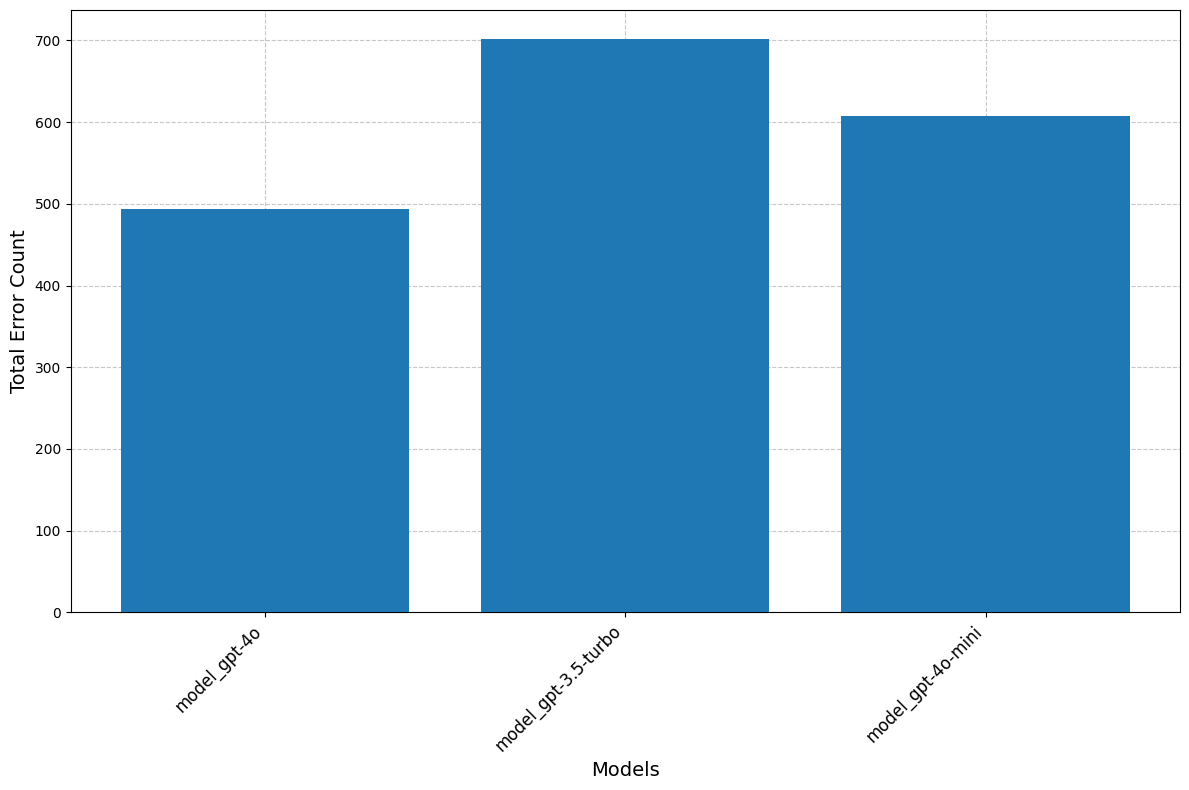
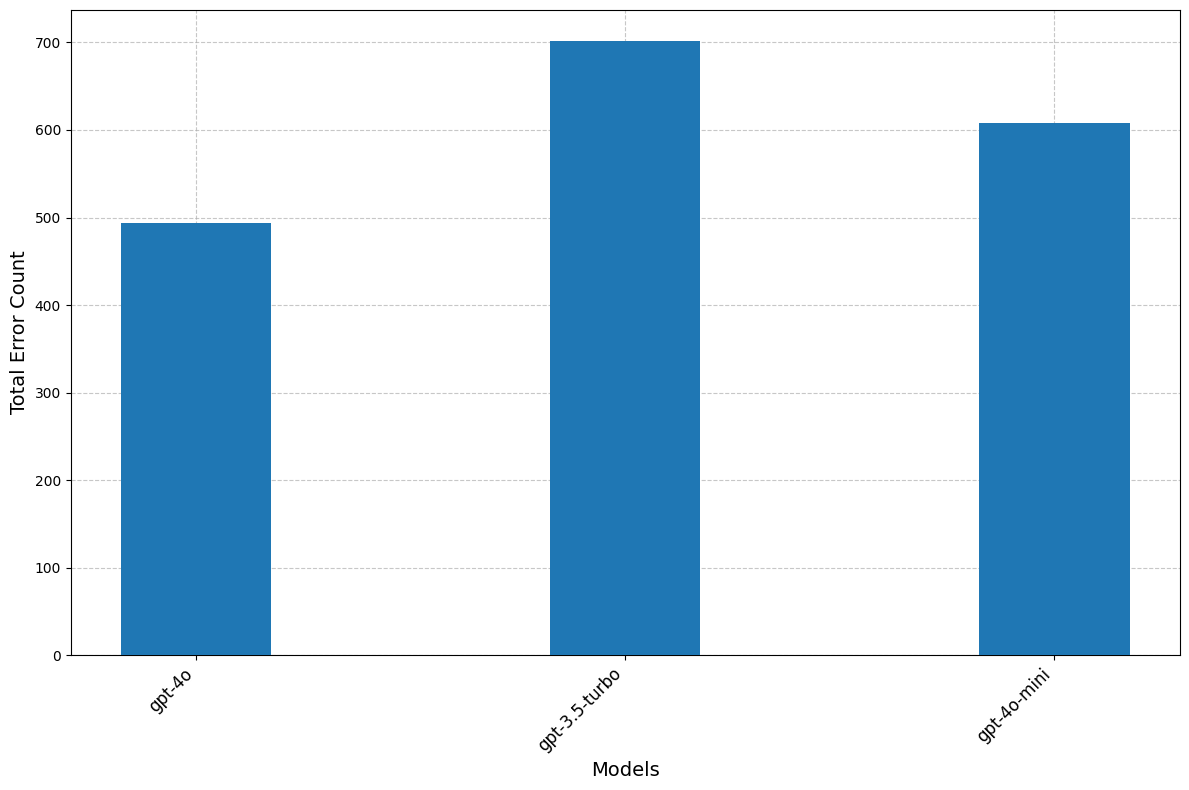
fix representation in plots. Refs #22.

diff --git a/visualisation/visualize_all.py b/visualisation/visualize_all.py
@@ -49,14 +49,34 @@ def plot_error_types():
     base_dir = Path(os.getenv('PROJECT_BASE_DIR'))
     models_dir = os.path.join(base_dir, 'evaluation_results', 'results')
 
-    error_type_plot = ErrorTypePlot()
+    errorTypePlot = ErrorTypePlot()
 
     # Extract error counts
-    all_error_counts = error_type_plot.extract_and_count_errors(models_dir)
+    all_error_counts = errorTypePlot.extract_and_count_errors(models_dir)
 
     # Plot error counts for each model and prompt type
     for (prompt_type, model_name), error_counts in all_error_counts.items():
-        error_type_plot.plot_error_counts(prompt_type, model_name, error_counts)
+        errorTypePlot.plot_error_counts(prompt_type, model_name, error_counts)
+
+    # Extract total error counts by model
+    model_list = ['model_gpt-4o', 'model_gpt-4o-mini', 'model_gpt-3.5-turbo']
+    prompt_dirs_standard = ['no_principles_base_prompt', 'all_principles_zero_shot', 'all_principles_few_shot',
+                            'chain_of_thought', 'best_prompt']
+    all_error_counts_by_model = errorTypePlot.extract_and_count_total_errors_per_model_per_prompt_type(models_dir,
+                                                                                                       model_list,
+                                                                                                       prompt_dirs_standard)
+
+    # Plot total error counts for each model
+    errorTypePlot.plot_total_error_counts_by_prompt_type(all_error_counts_by_model)
+
+    models_list_ft = ['model_gpt-4o-mini', 'model_ft:gpt-4o-mini-2024-07-18:university-of-bielefeld::A5quE69s']
+    prompt_dirs_ft = ['fine_tuning_best_prompt_fold_2']
+    all_error_counts_by_model_ft = errorTypePlot.extract_and_count_total_errors_per_model_per_prompt_type(models_dir,
+                                                                                                          models_list_ft,
+                                                                                                          prompt_dirs_ft)
+
+    # Plot total error counts for each model
+    errorTypePlot.plot_total_error_counts_by_prompt_type(all_error_counts_by_model_ft)
 
 
 def plot_exclude_paths():
@@ -105,12 +125,18 @@ def plot_runtime():
     load_dotenv()
     base_dir = Path(os.getenv('PROJECT_BASE_DIR'))
 
-    results_dir = os.path.join(base_dir, 'evaluation_results', 'results')
-    prompt_dirs = os.listdir(results_dir)
-
-    for prompt_dir_name in prompt_dirs:
+    prompt_dirs_standard = ['no_principles_base_prompt', 'all_principles_zero_shot', 'all_principles_few_shot', 'chain_of_thought', 'best_prompt']
+    models_list_standard = ['model_gpt-4o', 'model_gpt-4o-mini', 'model_gpt-3.5-turbo']
+    for prompt_dir_name in prompt_dirs_standard:
         models_dir = os.path.join(base_dir, 'evaluation_results', 'results', prompt_dir_name)
-        model_names, runtimes = runtime_plot.calculate_runtime(models_dir)
+        model_names, runtimes = runtime_plot.calculate_runtime(models_dir, models_list_standard)
+        runtime_plot.plot_runtime(model_names, runtimes, prompt_dir_name)
+
+    models_list_ft = ['model_gpt-4o-mini', 'model_ft:gpt-4o-mini-2024-07-18:university-of-bielefeld::A5quE69s']
+    prompt_dirs_ft = ['fine_tuning_best_prompt_fold_2']
+    for prompt_dir_name in prompt_dirs_ft:
+        models_dir = os.path.join(base_dir, 'evaluation_results', 'results', prompt_dir_name)
+        model_names, runtimes = runtime_plot.calculate_runtime(models_dir, models_list_ft)
         runtime_plot.plot_runtime(model_names, runtimes, prompt_dir_name)
 
 
@@ -119,12 +145,19 @@ def plot_costs_per_model():
     load_dotenv()
     base_dir = Path(os.getenv('PROJECT_BASE_DIR'))
 
-    results_dir = os.path.join(base_dir, 'evaluation_results', 'results')
-    prompt_dirs = os.listdir(results_dir)
-
-    for prompt_dir_name in prompt_dirs:
+    prompt_dirs_standard = ['no_principles_base_prompt', 'all_principles_zero_shot', 'all_principles_few_shot',
+                            'chain_of_thought', 'best_prompt']
+    models_list_standard = ['model_gpt-4o', 'model_gpt-4o-mini', 'model_gpt-3.5-turbo']
+    for prompt_dir_name in prompt_dirs_standard:
         models_dir = os.path.join(base_dir, 'evaluation_results', 'results', prompt_dir_name)
-        model_names, costs = cost_plot.calculate_costs(models_dir)
+        model_names, costs = cost_plot.calculate_costs(models_dir, models_list_standard)
+        cost_plot.plot_costs(model_names, costs, prompt_dir_name)
+
+    models_list_ft = ['model_gpt-4o-mini', 'model_ft:gpt-4o-mini-2024-07-18:university-of-bielefeld::A5quE69s']
+    prompt_dirs_ft = ['fine_tuning_best_prompt_fold_2']
+    for prompt_dir_name in prompt_dirs_ft:
+        models_dir = os.path.join(base_dir, 'evaluation_results', 'results', prompt_dir_name)
+        model_names, costs = cost_plot.calculate_costs(models_dir, models_list_ft)
         cost_plot.plot_costs(model_names, costs, prompt_dir_name)
 
 

diff --git a/visualisation/scores_error_types.py b/visualisation/scores_error_types.py
@@ -65,7 +65,7 @@ class ErrorTypePlot:
         return all_error_counts
 
     @staticmethod
-    def extract_and_count_total_errors_per_model_per_prompt_type(results_directory, model_list):
+    def extract_and_count_total_errors_per_model_per_prompt_type(results_directory, model_list, prompt_list):
         """
         Extracts and counts total errors per model for each prompt type.
 
@@ -80,7 +80,7 @@ class ErrorTypePlot:
         error_counts_by_prompt_type = defaultdict(lambda: defaultdict(int))
 
         # Iterate through each prompt type directory in the results directory
-        for prompt_type_folder in os.listdir(results_directory):
+        for prompt_type_folder in prompt_list:
             prompt_type_path = os.path.join(results_directory, prompt_type_folder)
 
             if os.path.isdir(prompt_type_path):
@@ -190,7 +190,8 @@ class ErrorTypePlot:
 
             # Bar plot
             bar_positions = np.arange(len(models))
-            ax.bar(bar_positions, total_errors, color='#1f77b4',  zorder=3)
+            bar_width = 0.35
+            ax.bar(bar_positions, total_errors, bar_width, color='#1f77b4', zorder=3)
 
             # Set labels and title
             ax.set_xlabel('Models', fontsize=14)
@@ -199,7 +200,13 @@ class ErrorTypePlot:
 
             # Set x-ticks and rotate for better readability
             ax.set_xticks(bar_positions)
-            ax.set_xticklabels(models, rotation=45, ha='right', fontsize=12)
+            truncated_model_names = [
+                re.sub(r'^model_(\w+):([a-zA-Z0-9\-\.]+)-\d{4}-\d{2}-\d{2}.*', r'\2-\1', name)
+                if ':' in name else
+                re.sub(r'^model_([a-zA-Z0-9\-\.]+).*', r'\1', name)
+                for name in models
+            ]
+            ax.set_xticklabels(truncated_model_names, rotation=45, ha='right', fontsize=12)
 
             # Grid and layout adjustments
             plt.grid(True, linestyle='--', alpha=0.7, zorder=0)
@@ -232,7 +239,20 @@ if __name__ == '__main__':
 
     # Extract total error counts by model
     model_list = ['model_gpt-4o', 'model_gpt-4o-mini', 'model_gpt-3.5-turbo']
-    all_error_counts_by_model = errorTypePlot.extract_and_count_total_errors_per_model_per_prompt_type(models_dir, model_list)
+    prompt_dirs_standard = ['no_principles_base_prompt', 'all_principles_zero_shot', 'all_principles_few_shot',
+                            'chain_of_thought', 'best_prompt']
+    all_error_counts_by_model = errorTypePlot.extract_and_count_total_errors_per_model_per_prompt_type(models_dir,
+                                                                                                       model_list,
+                                                                                                       prompt_dirs_standard)
 
     # Plot total error counts for each model
     errorTypePlot.plot_total_error_counts_by_prompt_type(all_error_counts_by_model)
+
+    models_list_ft = ['model_gpt-4o-mini', 'model_ft:gpt-4o-mini-2024-07-18:university-of-bielefeld::A5quE69s']
+    prompt_dirs_ft = ['fine_tuning_best_prompt_fold_2']
+    all_error_counts_by_model_ft = errorTypePlot.extract_and_count_total_errors_per_model_per_prompt_type(models_dir,
+                                                                                                          models_list_ft,
+                                                                                                          prompt_dirs_ft)
+
+    # Plot total error counts for each model
+    errorTypePlot.plot_total_error_counts_by_prompt_type(all_error_counts_by_model_ft)

diff --git a/visualisation/plot_costs.py b/visualisation/plot_costs.py
@@ -1,5 +1,6 @@
 import json
 import os
+import re
 from pathlib import Path
 
 import numpy as np
@@ -12,11 +13,11 @@ class CostPlot:
         pass
 
     @staticmethod
-    def calculate_costs(models_directory):
+    def calculate_costs(models_directory, model_list):
         model_names = []
         costs = []
         for model_folder in os.listdir(models_directory):
-            if os.path.isdir(os.path.join(models_directory, model_folder)) and model_folder in {'model_gpt-4o', 'model_gpt-4o-mini', 'model_gpt-3.5-turbo'}:
+            if os.path.isdir(os.path.join(models_directory, model_folder)) and model_folder in model_list:
                 costs_directory = os.path.join(models_directory, model_folder, 'costs')
                 if os.path.exists(costs_directory):
                     json_files = [file for file in os.listdir(costs_directory) if file.endswith('.json')]
@@ -42,10 +43,12 @@ class CostPlot:
         ax.set_ylabel('Costs in dollar')
         # ax.set_title(f'Costs per model {prompt_name}', pad=20)
         ax.set_xticks(x)
-        # truncated_model_names = [
-        #     name.split("-2024-07-18")[0] if "-2024-07-18" in name else name for name in
-        #     model_names]
-        truncated_model_names = [name.replace("model_", "") for name in model_names]
+        truncated_model_names = [
+            re.sub(r'^model_(\w+):([a-zA-Z0-9\-\.]+)-\d{4}-\d{2}-\d{2}.*', r'\2-\1', name)
+            if ':' in name else
+            re.sub(r'^model_([a-zA-Z0-9\-\.]+).*', r'\1', name)
+            for name in model_names
+        ]
         ax.set_xticklabels(truncated_model_names, rotation=45, ha='right')
 
         plt.tight_layout()
@@ -65,10 +68,17 @@ if __name__ == '__main__':
     load_dotenv()
     base_dir = Path(os.getenv('PROJECT_BASE_DIR'))
 
-    results_dir = os.path.join(base_dir, 'evaluation_results', 'results')
-    prompt_dirs = os.listdir(results_dir)
-
-    for prompt_dir_name in prompt_dirs:
+    prompt_dirs_standard = ['no_principles_base_prompt', 'all_principles_zero_shot', 'all_principles_few_shot',
+                            'chain_of_thought', 'best_prompt']
+    models_list_standard = ['model_gpt-4o', 'model_gpt-4o-mini', 'model_gpt-3.5-turbo']
+    for prompt_dir_name in prompt_dirs_standard:
         models_dir = os.path.join(base_dir, 'evaluation_results', 'results', prompt_dir_name)
-        model_names, costs = cost_plot.calculate_costs(models_dir)
+        model_names, costs = cost_plot.calculate_costs(models_dir, models_list_standard)
+        cost_plot.plot_costs(model_names, costs, prompt_dir_name)
+
+    models_list_ft = ['model_gpt-4o-mini', 'model_ft:gpt-4o-mini-2024-07-18:university-of-bielefeld::A5quE69s']
+    prompt_dirs_ft = ['fine_tuning_best_prompt_fold_2']
+    for prompt_dir_name in prompt_dirs_ft:
+        models_dir = os.path.join(base_dir, 'evaluation_results', 'results', prompt_dir_name)
+        model_names, costs = cost_plot.calculate_costs(models_dir, models_list_ft)
         cost_plot.plot_costs(model_names, costs, prompt_dir_name)

diff --git a/visualisation/plot_runtime.py b/visualisation/plot_runtime.py
@@ -1,5 +1,6 @@
 import json
 import os
+import re
 from pathlib import Path
 
 import numpy as np
@@ -12,11 +13,11 @@ class RuntimePlot:
         pass
 
     @staticmethod
-    def calculate_runtime(models_directory):
+    def calculate_runtime(models_directory, model_list):
         model_names = []
         runtimes = []
         for model_folder in os.listdir(models_directory):
-            if os.path.isdir(os.path.join(models_directory, model_folder)) and model_folder in {'model_gpt-4o', 'model_gpt-4o-mini', 'model_gpt-3.5-turbo'}:
+            if os.path.isdir(os.path.join(models_directory, model_folder)) and model_folder in model_list:
                 runtime_directory = os.path.join(models_directory, model_folder, 'runtime')
                 if os.path.exists(runtime_directory):
                     json_files = [file for file in os.listdir(runtime_directory) if file.endswith('.json')]
@@ -40,9 +41,13 @@ class RuntimePlot:
         ax.bar(x, runtimes, bar_width, zorder=3)
         ax.set_xlabel('Models')
         ax.set_ylabel('Runtime in seconds')
-        # ax.set_title(f'Runtime per model for {prompt_name}', pad=20)
         ax.set_xticks(x)
-        truncated_model_names = [name.replace("model_", "") for name in model_names]
+        truncated_model_names = [
+            re.sub(r'^model_(\w+):([a-zA-Z0-9\-\.]+)-\d{4}-\d{2}-\d{2}.*', r'\2-\1', name)
+            if ':' in name else
+            re.sub(r'^model_([a-zA-Z0-9\-\.]+).*', r'\1', name)
+            for name in model_names
+        ]
         ax.set_xticklabels(truncated_model_names, rotation=45, ha='right')
 
         plt.tight_layout()
@@ -63,9 +68,17 @@ if __name__ == '__main__':
     base_dir = Path(os.getenv('PROJECT_BASE_DIR'))
 
     results_dir = os.path.join(base_dir, 'evaluation_results', 'results')
-    prompt_dirs = os.listdir(results_dir)
 
-    for prompt_dir_name in prompt_dirs:
+    prompt_dirs_standard = ['no_principles_base_prompt', 'all_principles_zero_shot', 'all_principles_few_shot', 'chain_of_thought', 'best_prompt']
+    models_list_standard = ['model_gpt-4o', 'model_gpt-4o-mini', 'model_gpt-3.5-turbo']
+    for prompt_dir_name in prompt_dirs_standard:
         models_dir = os.path.join(base_dir, 'evaluation_results', 'results', prompt_dir_name)
-        model_names, runtimes = runtime_plot.calculate_runtime(models_dir)
+        model_names, runtimes = runtime_plot.calculate_runtime(models_dir, models_list_standard)
+        runtime_plot.plot_runtime(model_names, runtimes, prompt_dir_name)
+
+    models_list_ft = ['model_gpt-4o-mini', 'model_ft:gpt-4o-mini-2024-07-18:university-of-bielefeld::A5quE69s']
+    prompt_dirs_ft = ['fine_tuning_best_prompt_fold_2']
+    for prompt_dir_name in prompt_dirs_ft:
+        models_dir = os.path.join(base_dir, 'evaluation_results', 'results', prompt_dir_name)
+        model_names, runtimes = runtime_plot.calculate_runtime(models_dir, models_list_ft)
         runtime_plot.plot_runtime(model_names, runtimes, prompt_dir_name)

diff --git a/visualisation/scores_overall_accuracy.py b/visualisation/scores_overall_accuracy.py
@@ -62,7 +62,7 @@ class OverallAccuracy:
         ax.set_xticks(x)
 
         truncated_model_names = [
-            re.sub(r'^model_(\w+):([a-zA-Z0-9\-\.]+)-\d{4}-\d{2}-\d{2}.*', r'\2_\1', name)
+            re.sub(r'^model_(\w+):([a-zA-Z0-9\-\.]+)-\d{4}-\d{2}-\d{2}.*', r'\2-\1', name)
             if ':' in name else
             re.sub(r'^model_([a-zA-Z0-9\-\.]+).*', r'\1', name)
             for name in model_names
